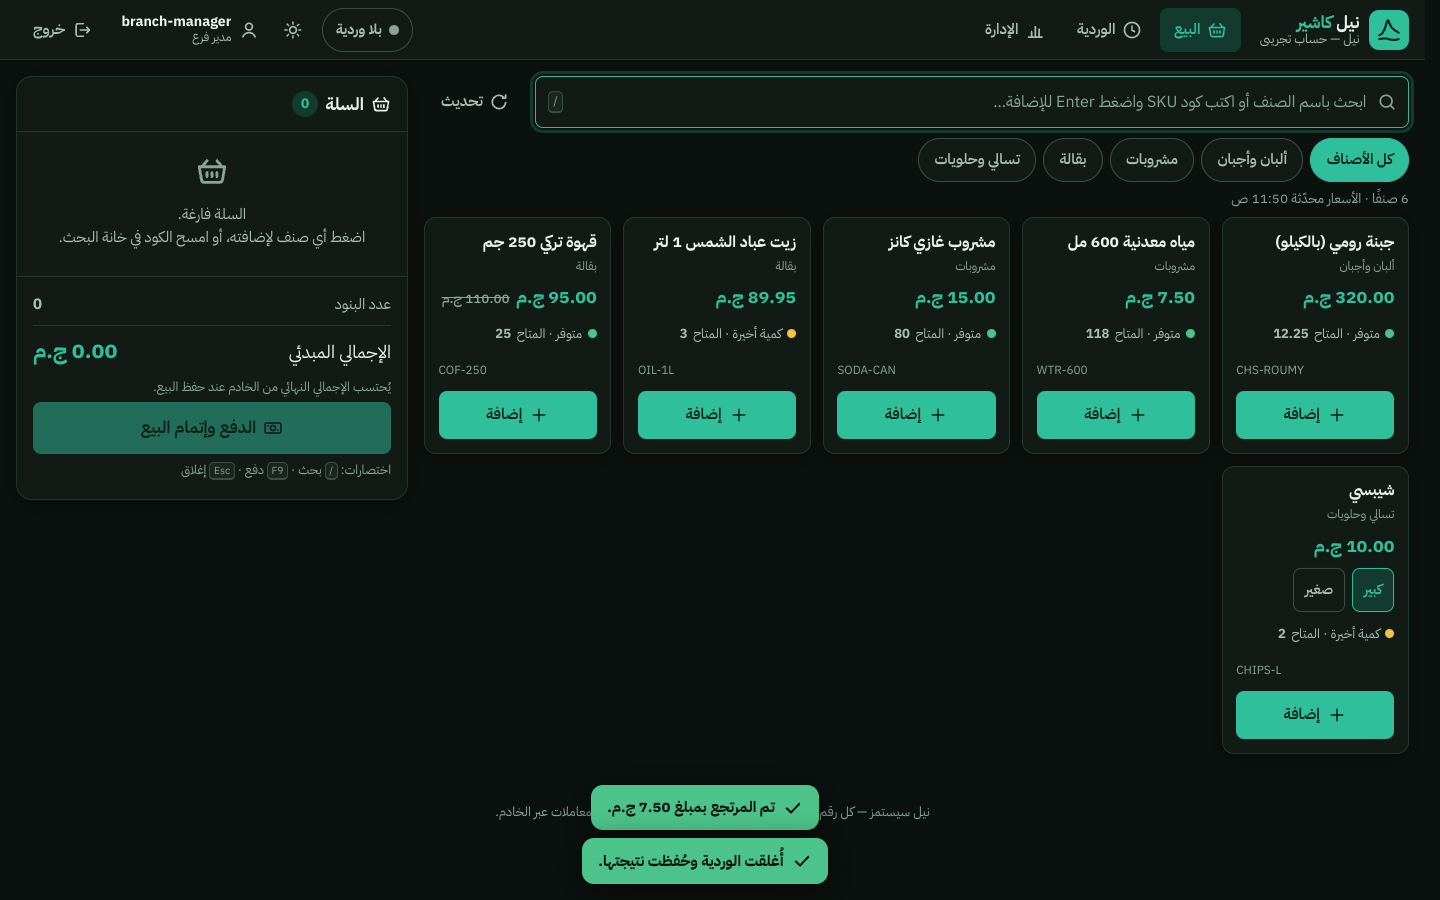
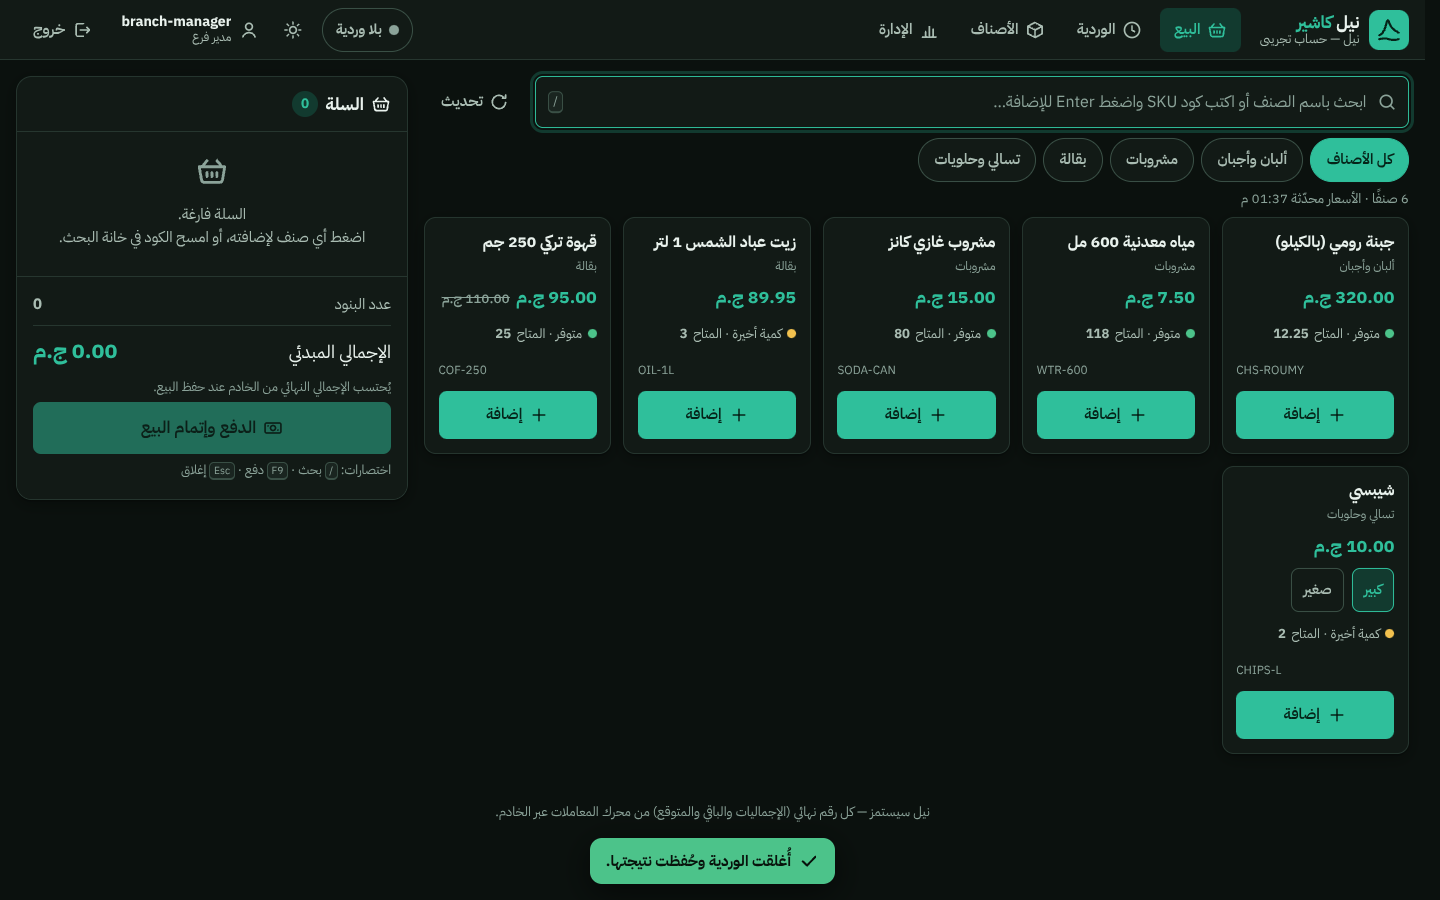
test(web): commercial-day browser journey 81/81 — G-03 catalog flow + D-D probes
Flow E: manager creates an item in the UI → sells it at 120.00 → duplicate
SKU shows an inline error → price raised to 150.00 → later sale uses the new
price → deactivation hides it from selling and the server rejects a direct
checkout (unknown_item) → report delta exactly +270.00 billed. Cashier:
catalog nav hidden and direct API create/list 403; daily report 403 (D-D).
Invoice counting in cashier flows now uses an authorized manager session
(the cashier no longer holds the report permission). Fixes 390px overflow
in the new section (min-width:0 on cards, shrinkable 4-button nav).
Flows run on real Chromium against a real server on a fresh DB.

diff --git a/apps/web/styles.css b/apps/web/styles.css
@@ -324,8 +324,8 @@ dialog::backdrop{background:rgba(8,14,11,.55)}
 }
 @media (max-width:720px){
   .topbar{flex-wrap:wrap;padding:.4rem .6rem;gap:.4rem}
-  .main-nav{order:3;width:100%;margin:0}
-  .nav-btn{flex:1;justify-content:center}
+  .main-nav{order:3;width:100%;margin:0;gap:.15rem}
+  .nav-btn{flex:1 1 0;justify-content:center;min-width:0;padding:.5rem .25rem;font-size:.86rem;white-space:nowrap}
   .topbar-actions{margin-inline-start:auto}
   .user-texts{display:none}
   .hide-sm{display:none!important}
@@ -359,7 +359,8 @@ dialog::backdrop{background:rgba(8,14,11,.55)}
 .check-line input{width:20px;height:20px;accent-color:var(--brand)}
 .admin-catalog-note{margin-top:.4rem}
 .admin-item-cards{display:grid;grid-template-columns:repeat(auto-fill,minmax(340px,1fr));gap:1rem;margin-top:.8rem}
-.admin-item-card{background:var(--surface-2);border:1px solid var(--line);border-radius:var(--r-lg);padding:.9rem 1rem}
+.admin-item-card{background:var(--surface-2);border:1px solid var(--line);border-radius:var(--r-lg);padding:.9rem 1rem;min-width:0}
+.admin-item-card .table-wrap{max-width:100%}
 .admin-item-card.is-inactive{opacity:.78}
 .admin-item-head{display:flex;justify-content:space-between;align-items:flex-start;gap:.8rem}
 .admin-item-head h3{margin:0;font-size:1.05rem}
